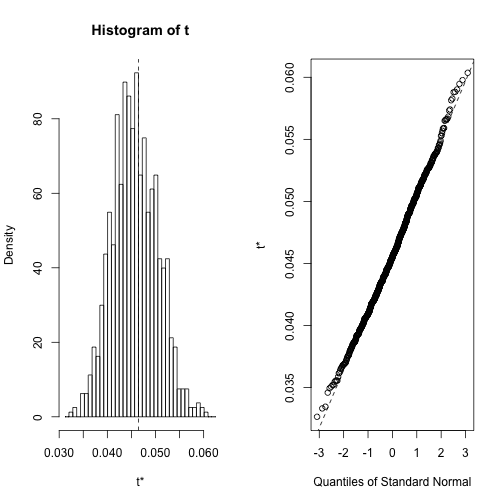
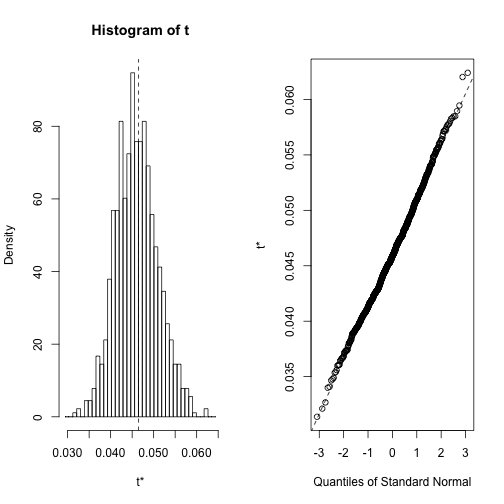
no message

diff --git a/_posts/r/2014-10-29-an-example-of-the-bootstrap-method.md b/_posts/r/2014-10-29-an-example-of-the-bootstrap-method.md
@@ -1,23 +1,22 @@
 ---
 layout: post
 title: "An Example of the Bootstrap Method"
-date: 2014-10-29 19:28:49 -0400
+date: 2014-10-29
 comments: true
 categories: r
 keywords: "R, zoo, tseries, download stock price data using R, analyze stock price data using R, bootstrap examples"
 published: true
 share: true
 ads: true
-
 ---
 
-When calculating the [bias and precision](http://gmlang.com/da/bias-and-precision/) of a sample estimate to the popluation parameter, because we often don't know the true value of the population parameter and we often only have one sample, we use a procedure called *bootstrap*. The idea is simple:
+When calculating the [bias and precision](http://masterr.org/da/bias-and-precision/) of a sample estimate to the popluation parameter, because we often don't know the true value of the population parameter and we often only have one sample, we use a procedure called *bootstrap*. The idea is simple:
 
 1. treat the sample as the population
 2. understand the sampling scheme, i.e., how the sample was taken from the population
 3. sample the same number of observations with replacement from the sample according to the same sampling scheme
 4. for each of the new samples, calculate its sample statistic. For example, if you're interested in the mean of the population, you just calculate the sample average. If you're interested in the sd of the population, you just calculate the sample sd. 
-5. these sample statistics form a distribution. Take its average and use it as a proxy to the true value of the population parameter. Plug it and the sample statistic of your original sample into [the formulas of bias and precision](http://gmlang.com/da/bias-and-precision/).
+5. these sample statistics form a distribution. Take its average and use it as a proxy to the true value of the population parameter. Plug it and the sample statistic of your original sample into [the formulas of bias and precision](http://masterr.org/da/bias-and-precision/).
 
 The following is a concrete example implementing the above bootstrap procedure using R and some stock price data.
 
@@ -52,10 +51,10 @@ head(ret.cc, 4)
 
 {% highlight text %}
 ##                 VTSMX
-## Oct 2005 -0.018616483
-## Nov 2005  0.038859285
-## Dec 2005  0.001570475
-## Jan 2006  0.034319929
+## Oct 2005 -0.018813600
+## Nov 2005  0.038941761
+## Dec 2005  0.001354186
+## Jan 2006  0.034401428
 {% endhighlight %}
 
 Step 2. Calculate the sample average c.c. returns
@@ -91,7 +90,7 @@ cat(paste0(round(bias*100, 2), "%"))
 
 
 {% highlight text %}
-## 0%
+## 0.02%
 {% endhighlight %}
 
 
@@ -105,7 +104,7 @@ cat(paste0(round(precision*100, 2), "%"))
 
 
 {% highlight text %}
-## 0.46%
+## 0.45%
 {% endhighlight %}
 
 Step 4. Instead of doing the bootstrap procedure ourselves, we can use the `boot()` function in the `boot` library. For example, we can use the following code to calculate the bootstrap bias and precision for the volatility (standard deviation).
@@ -152,7 +151,7 @@ VTSMX.sd.boot
 ## 
 ## Bootstrap Statistics :
 ##       original        bias    std. error
-## t1* 0.04646405 -0.0007377369 0.004656785
+## t1* 0.04646892 -0.0003882149 0.004814115
 {% endhighlight %}
 
 
@@ -161,7 +160,7 @@ VTSMX.sd.boot
 plot(VTSMX.sd.boot)
 {% endhighlight %}
 
-![center](/../figs/2014-10-29-an-example-of-the-bootstrap-method/unnamed-chunk-4-1.png) 
+![center](/../figs/2014-10-29-an-example-of-the-bootstrap-method/unnamed-chunk-4-1.png)
 
 Step 5. We can also calculate the bootstrap 95% confidence intervals of the volatility.
 
@@ -182,7 +181,7 @@ boot.ci(VTSMX.sd.boot, conf=0.95, type=c("norm", "perc"))
 ## 
 ## Intervals : 
 ## Level      Normal             Percentile     
-## 95%   ( 0.0381,  0.0563 )   ( 0.0370,  0.0548 )  
+## 95%   ( 0.0374,  0.0563 )   ( 0.0372,  0.0561 )  
 ## Calculations and Intervals on Original Scale
 {% endhighlight %}
 
@@ -213,7 +212,7 @@ boot.ci(VTSMX.VaR.boot, conf=0.95, type=c("norm", "perc"))
 ## 
 ## Intervals : 
 ## Level      Normal             Percentile     
-## 95%   (-8920, -4810 )   (-8781, -4766 )  
+## 95%   (-8820, -4898 )   (-8896, -4939 )  
 ## Calculations and Intervals on Original Scale
 {% endhighlight %}
 
